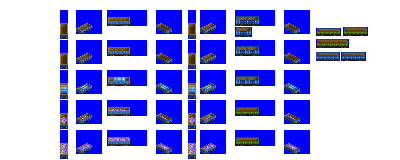
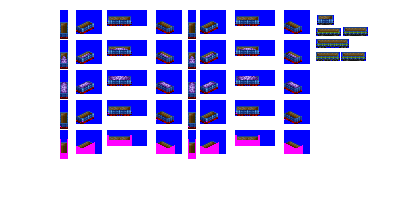
Change: gen 4B open car

diff --git a/src/vehicles/open_cars.py b/src/vehicles/open_cars.py
@@ -24,7 +24,7 @@ def main():
                              subtype='A')
 
     consist.add_unit(type=FreightCar,
-                     cargo_length=3,
+                     cargo_length=4,
                      vehicle_length=4,
                      chassis='2_axle_filled_16px')
 
@@ -37,7 +37,7 @@ def main():
                              subtype='B')
 
     consist.add_unit(type=FreightCar,
-                     cargo_length=3,
+                     cargo_length=6,
                      vehicle_length=6,
                      chassis='4_axle_gapped_24px')
 
@@ -48,7 +48,7 @@ def main():
                              subtype='A')
 
     consist.add_unit(type=FreightCar,
-                     cargo_length=3,
+                     cargo_length=4,
                      vehicle_length=4,
                      chassis='2_axle_filled_16px')
 
@@ -59,7 +59,7 @@ def main():
                              subtype='B')
 
     consist.add_unit(type=FreightCar,
-                     cargo_length=3,
+                     cargo_length=6,
                      vehicle_length=6,
                      chassis='4_axle_gapped_24px')
 
@@ -70,8 +70,9 @@ def main():
                              subtype='A')
 
     consist.add_unit(type=FreightCar,
-                     cargo_length=3,
-                     vehicle_length=4)
+                     cargo_length=4,
+                     vehicle_length=4,
+                     chassis='2_axle_filled_16px')
 
 
     consist = OpenCarConsist(roster='pony',
@@ -80,8 +81,9 @@ def main():
                              subtype='B')
 
     consist.add_unit(type=FreightCar,
-                     cargo_length=3,
-                     vehicle_length=6)
+                     cargo_length=6,
+                     vehicle_length=6,
+                     chassis='2_axle_filled_24px')
 
 
     consist = OpenCarConsist(roster='pony',
@@ -105,100 +107,3 @@ def main():
 
 
     # no gen 6 open cars, cap to gen 5 in Pony
-
-    #--------------- llama ----------------------------------------------------------------------
-    consist = OpenCarConsist(roster='llama',
-                             base_numeric_id=860,
-                             gen=1,
-                             subtype='A')
-
-    consist.add_unit(type=FreightCar,
-                     cargo_length=3,
-                     vehicle_length=5)
-
-
-    consist = OpenCarConsist(roster='llama',
-                             base_numeric_id=1330,
-                             gen=2,
-                             subtype='A')
-
-    consist.add_unit(type=FreightCar,
-                     cargo_length=3,
-                     vehicle_length=5)
-
-
-    consist = OpenCarConsist(roster='llama',
-                             base_numeric_id=870,
-                             gen=1,
-                             subtype='A',
-                             track_type='NG')
-
-    consist.add_unit(type=FreightCar,
-                     cargo_length=3,
-                     vehicle_length=5)
-
-
-    consist = OpenCarConsist(roster='llama',
-                             base_numeric_id=1320,
-                             gen=2,
-                             subtype='A',
-                             track_type='NG')
-
-    consist.add_unit(type=FreightCar,
-                     cargo_length=3,
-                     vehicle_length=5)
-
-
-    #--------------- antelope ----------------------------------------------------------------------
-    consist = OpenCarConsist(roster='antelope',
-                             base_numeric_id=1760,
-                             gen=1,
-                             subtype='A')
-
-    consist.add_unit(type=FreightCar,
-                     cargo_length=3,
-                     vehicle_length=5)
-
-
-    consist = OpenCarConsist(roster='antelope',
-                             base_numeric_id=1770,
-                             gen=2,
-                             subtype='A')
-
-    consist.add_unit(type=FreightCar,
-                     cargo_length=3,
-                     vehicle_length=8)
-
-
-    consist = OpenCarConsist(roster='antelope',
-                             base_numeric_id=2090,
-                             gen=1,
-                             subtype='A',
-                             track_type='NG')
-
-    consist.add_unit(type=FreightCar,
-                     cargo_length=3,
-                     vehicle_length=5)
-
-
-    consist = OpenCarConsist(roster='antelope',
-                             base_numeric_id=1830,
-                             gen=2,
-                             subtype='A',
-                             track_type='NG')
-
-    consist.add_unit(type=FreightCar,
-                     cargo_length=3,
-                     vehicle_length=6)
-
-
-    consist = OpenCarConsist(roster='antelope',
-                             base_numeric_id=1820,
-                             gen=3,
-                             subtype='A',
-                             track_type='NG')
-
-    consist.add_unit(type=FreightCar,
-                     cargo_length=3,
-                     vehicle_length=6)
-
